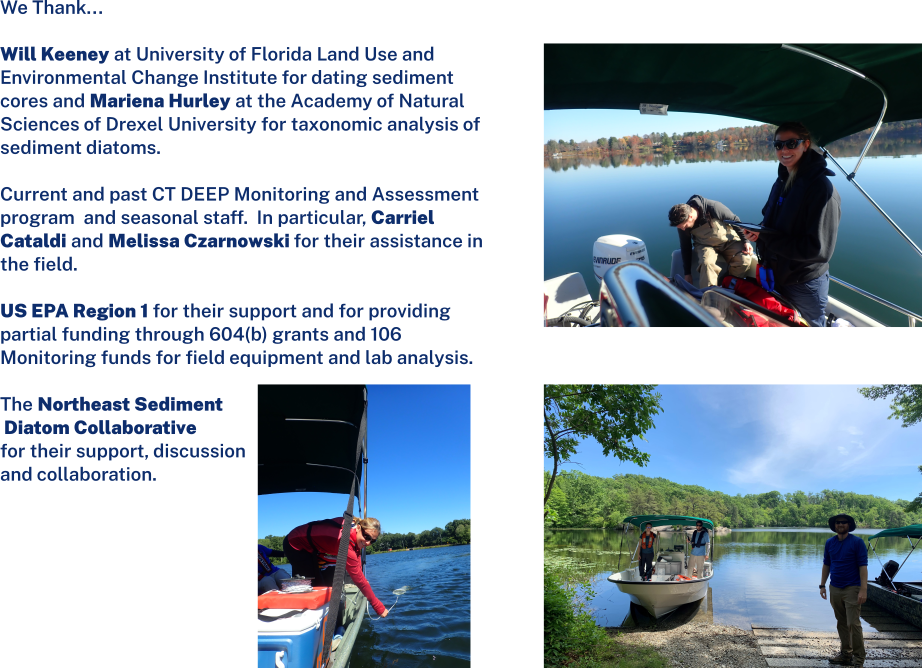
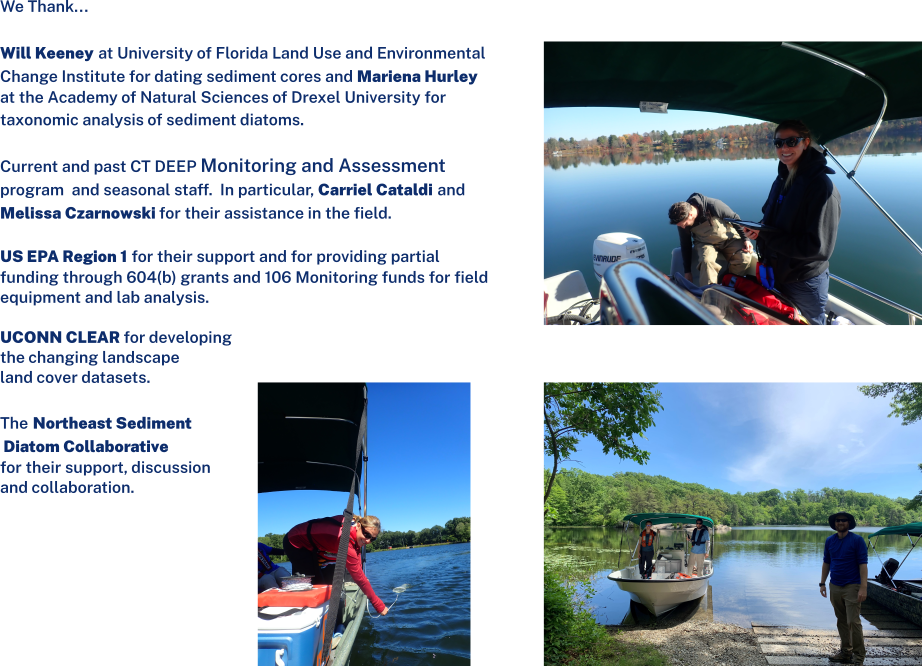
presentation updates

diff --git a/index.html b/index.html
@@ -280,11 +280,16 @@
 						<a href="https://doi.org/10.1080/0269249X.2021.2006790"> Spaulding et al. 2021. Diatoms.org: supporting taxonomists, connecting communities. 
 						Diatom Research 36(4): 291-304. https://doi.org/10.1080/0269249X.2021.2006790</a>
 						<br>
-						<br>	
-					<a href="https://nepis.epa.gov/Exe/ZyNET.exe/20004ODM.TXT?ZyActionD=ZyDocument&Client=EPA&Index=1995+Thru+1999&Docs=&Query=&Time=&EndTime=&SearchMethod=1&TocRestrict=n&Toc=&TocEntry=&QField=&QFieldYear=&QFieldMonth=&QFieldDay=&IntQFieldOp=0&ExtQFieldOp=0&XmlQuery=&File=D%3A%5Czyfiles%5CIndex%20Data%5C95thru99%5CTxt%5C00000012%5C20004ODM.txt&User=ANONYMOUS&Password=anonymous&SortMethod=h%7C-&MaximumDocuments=1&FuzzyDegree=0&ImageQuality=r75g8/r75g8/x150y150g16/i425&Display=hpfr&DefSeekPage=x&SearchBack=ZyActionL&Back=ZyActionS&BackDesc=Results%20page&MaximumPages=1&ZyEntry=1&SeekPage=x&ZyPURL">
+						<br>
+						University of Connecticut Center for Land Use Education and Research.  
+						<a href = "https://clear.uconn.edu/projects/landscape/ct-landcoverviewer/">Changing Landscape Land Cover Ver. 2.3.  </a>
+						Accessed 11 March 2023.
+						<br>
+						<br>
+						<a href="https://nepis.epa.gov/Exe/ZyNET.exe/20004ODM.TXT?ZyActionD=ZyDocument&Client=EPA&Index=1995+Thru+1999&Docs=&Query=&Time=&EndTime=&SearchMethod=1&TocRestrict=n&Toc=&TocEntry=&QField=&QFieldYear=&QFieldMonth=&QFieldDay=&IntQFieldOp=0&ExtQFieldOp=0&XmlQuery=&File=D%3A%5Czyfiles%5CIndex%20Data%5C95thru99%5CTxt%5C00000012%5C20004ODM.txt&User=ANONYMOUS&Password=anonymous&SortMethod=h%7C-&MaximumDocuments=1&FuzzyDegree=0&ImageQuality=r75g8/r75g8/x150y150g16/i425&Display=hpfr&DefSeekPage=x&SearchBack=ZyActionL&Back=ZyActionS&BackDesc=Results%20page&MaximumPages=1&ZyEntry=1&SeekPage=x&ZyPURL">
 						U.S. EPA, United States Environmental Protection Agency, 1998. 
 						Lake and Reservoir Bioassessment and Biocriteria (No. EPA 841-B-98-007).
-					</a>
+						</a>
 					</div>
 
 				</section>
